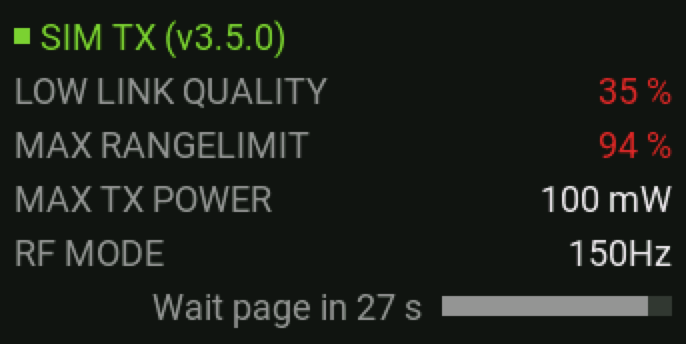
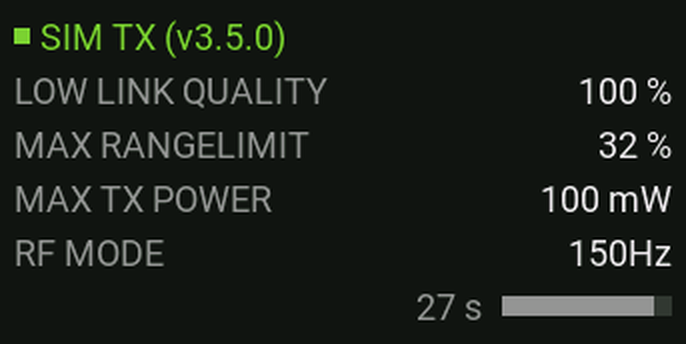
Colour levels from the core (rssiLevel), each guarded on its own; preflight RSSI separator in the text colour, both antennas only from a dual-antenna receiver; new README screenshots (TX16S MK3)

diff --git a/README.md b/README.md
@@ -193,7 +193,7 @@ All files are available in the matching folders of this repository, so just copy
 - Each warning switches a dimmed display back on (restarts the backlight timeout).
 - On the widget, the range bar fills towards 100 % and changes color (green → yellow → red) in lockstep with the audio warning. A yellow mark on the bar shows where the first warning starts.
 - With dynamic TX power the widget reads the module's Max Power after connecting. While the module sends below it, the end of the range bar is lighter: that part of the bar goes away once the module sends at full power.
-- Before the flight the widget shows a preflight page (LQ, mode, link status, RSSI, TX power). Once the link is OK, a bar at the bottom right counts down 15 s to the flight view; arming switches at once. After the flight (1.5 s without link) an end page shows the flight's lowest LQ, highest RANGELIMIT, highest TX power and the mode for 30 s.
+- Before the flight the widget shows a preflight page (LQ with a bar, mode, RSSI, TX power, link status). Once the link is OK, a countdown beside the status runs 15 s to the flight view; arming switches at once. After the flight (1.5 s without link) an end page shows the flight's lowest LQ, highest RANGELIMIT, highest TX power and the mode for 30 s.
 
 ---
 
